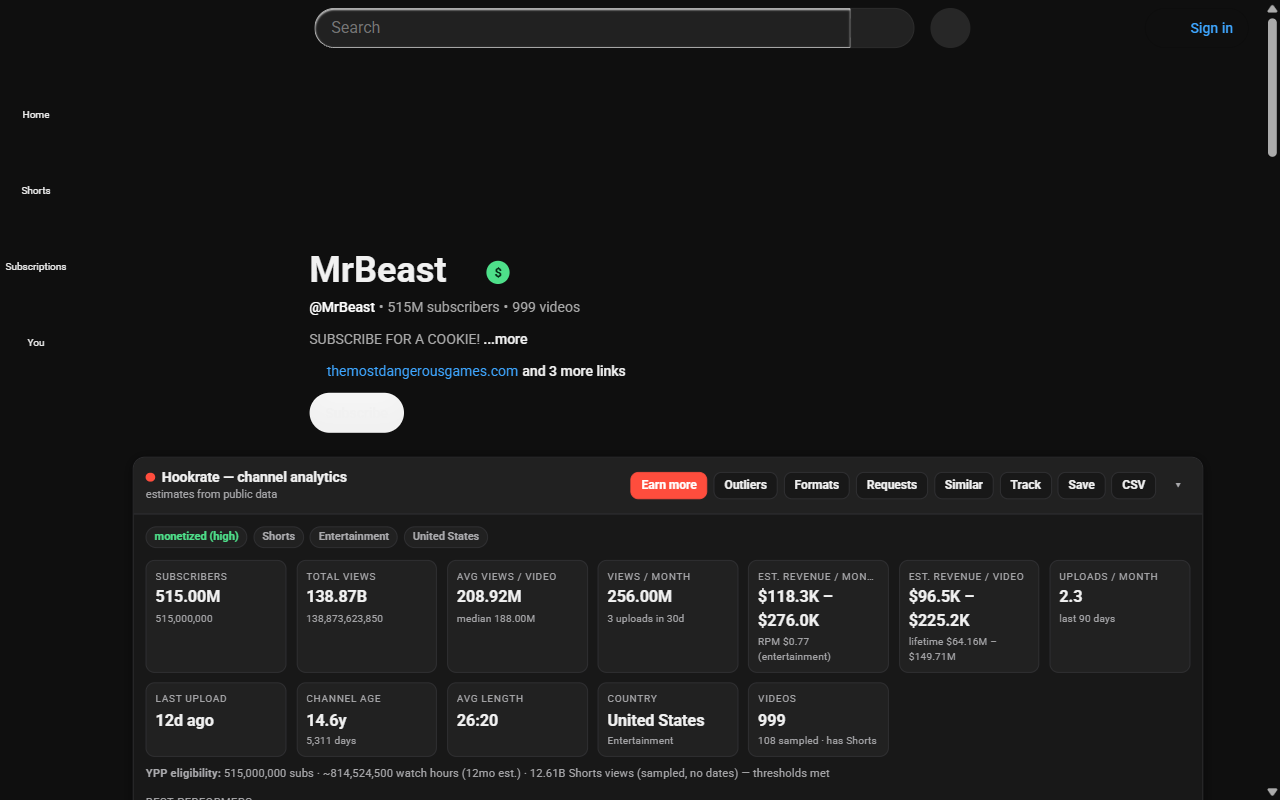
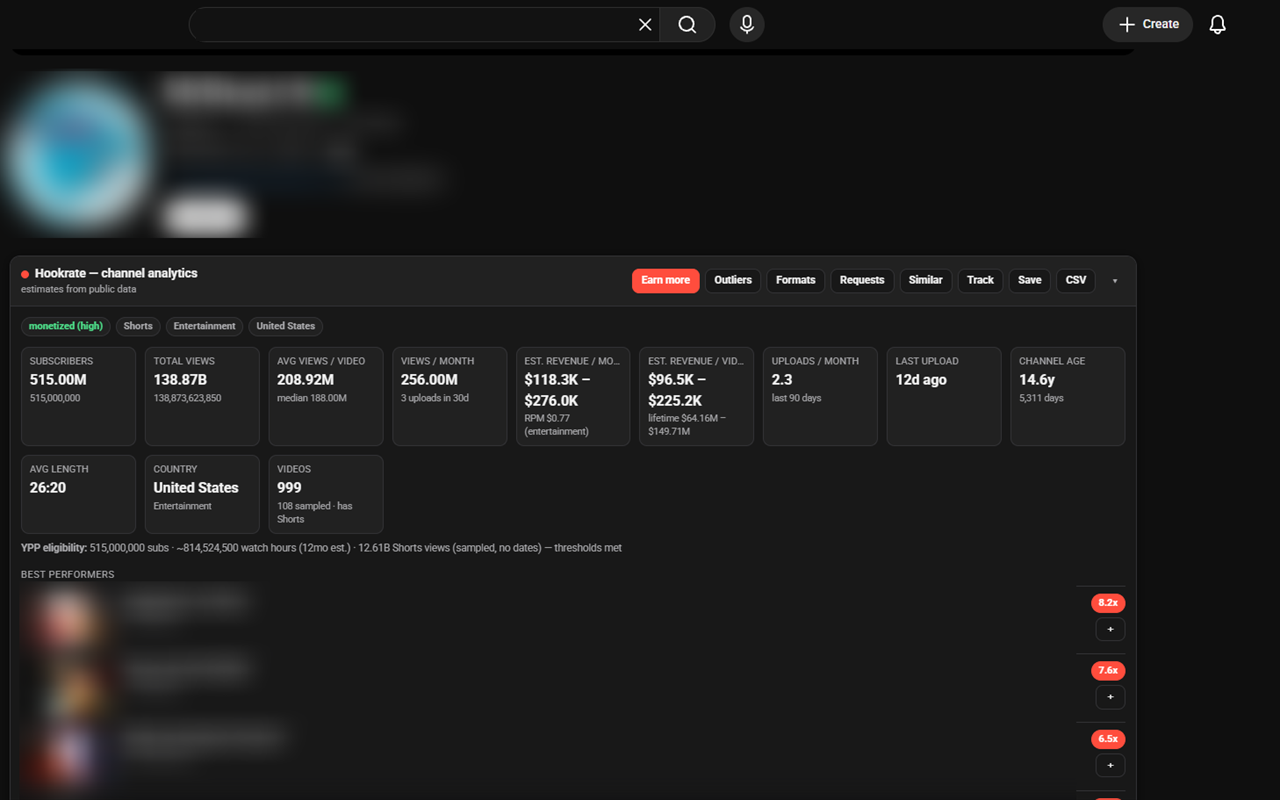
chore(hookrate): blur the host channel out of the store screenshots
A listing that features a real creator's name, avatar and branding implies
an endorsement that does not exist, and the masthead adds YouTube's own
logo to that. The numbers are what the screenshots sell, so they stay
sharp; whose numbers they are no longer appears.

The blur works by container rather than by identity element. Two earlier
attempts named individual classes -- the avatar, the title, the handle
row -- and both failed silently while the watch page leaked its
description, hashtags and the entire related column, none of which were on
the list. Blurring the containers that hold YouTube's own content, and
leaving only our panel sharp, cannot miss one: anything YouTube adds
inside them arrives blurred. The masthead joins that set, as do the bare
video ids our own monetization modal prints, since a video id resolves to
its channel in one request.

A redaction that fails silently is worse than none, so the script probes
the computed style afterwards and refuses to capture if the blur did not
land.

Also adds the monetization verdict as a fifth screenshot. It opens from
the badge beside the channel title rather than a panel button, so it needs
its own opener, and it is captured before the run navigates to the watch
page for good.

diff --git a/chrome-extension/hookrate/STORE.md b/chrome-extension/hookrate/STORE.md
@@ -329,17 +329,32 @@ and the tracker — exists to serve that single purpose.
 
 Upload them in this order; the first is the one most people judge the listing on:
 
-1. `hookrate-1-channel-analytics.png` — the panel on a 29M-subscriber channel, with the
+1. `hookrate-1-channel-analytics.png` — the panel on a large channel, with the
    monetization badge beside the channel name
 2. `hookrate-2-formats.png` — format clustering, with the detected title template
 3. `hookrate-3-revenue-advice.png` — ranked recommendations and their impact estimates
 4. `hookrate-4-watch-panel.png` — watch page stats and the outlier multiplier
+5. `hookrate-5-monetization.png` — the monetization verdict and the evidence
+   behind it: thresholds, sampled videos and the YPP surfaces found
 
 These are captures of the extension actually running against live YouTube,
-produced by `tool/smoke.mjs`'s sibling harness rather than mocked up. That
-distinction matters: a fabricated screenshot misrepresents functionality, which
-is what the "Be Honest" policy removes extensions for. Re-capture after any UI
-change so the listing never shows something the extension no longer does.
+produced by `tool/shots.mjs`, `tool/smoke.mjs`'s sibling harness, rather than
+mocked up. That distinction matters: a fabricated screenshot misrepresents
+functionality, which is what the "Be Honest" policy removes extensions for.
+Re-capture after any UI change so the listing never shows something the
+extension no longer does:
+
+```
+node tool/build.mjs
+node tool/shots.mjs --chrome "<path to Chrome for Testing>"
+```
+
+The host channel's identity is blurred before capture — its header, the video
+grid, the masthead and any video ids our own panel prints. The numbers stay
+sharp, since they are what the screenshot sells, but no real creator's name,
+avatar or branding appears in the listing implying an endorsement that does not
+exist. `--no-redact` turns that off; the script refuses to capture if the blur
+did not land.
 
 ---
 
